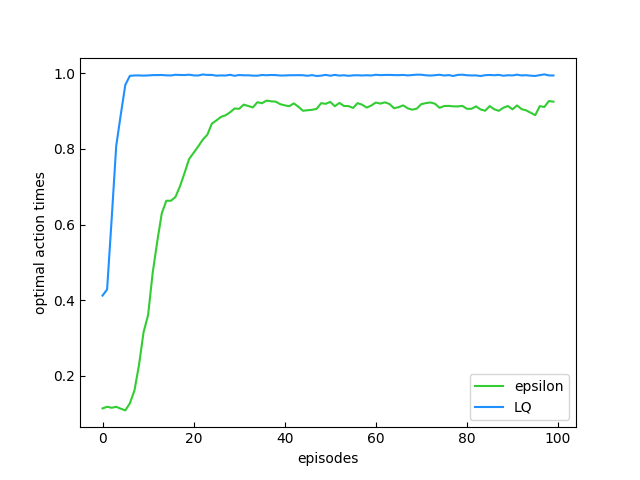
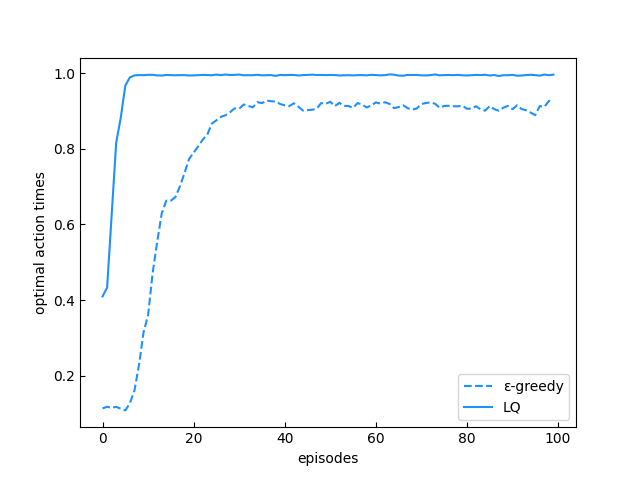
minor rivision

diff --git a/Draw/draw.py b/Draw/draw.py
@@ -15,8 +15,8 @@ episodes_la = np.load(fname_la)
 
 plt.rcParams['xtick.direction'] = 'in'
 plt.rcParams['ytick.direction'] = 'in'
-plt.plot(np.arange(0, episode_num), episodes_eps, label='epsilon', color='limegreen')
-plt.plot(np.arange(0, episode_num), episodes_la, label='LQ', color='dodgerblue')
+plt.plot(np.arange(0, episode_num), episodes_eps, ls='--', label='ε-greedy', color='dodgerblue')
+plt.plot(np.arange(0, episode_num), episodes_la, ls='-',label='LQ', color='dodgerblue')
 #plt.plot(np.arange(0, step_num - 200), steps1[:300], color = 'dodgerblue')
 #plt.plot(np.arange(0, step_num - 200), steps2[:300], color = 'salmon')
 #plt.axhline(ave, ls = "-.", color = "slateblue")

diff --git a/TaxiProblemwithLA/taxiproblem.py b/TaxiProblemwithLA/taxiproblem.py
@@ -55,6 +55,7 @@ if __name__ == '__main__':
             opt_act_num = 0
             state = env.reset()
             agent.observe(state)    #初期状態に
+            
     opt_act_prob_ave = opt_act_prob_ave / cst.const.NB_REPEAT
     #Q値保存
     agent.save_q(f'./Qvalues/Qvalue_la_theta{cst.const.THETA}.npy')

diff --git a/TaxiProblemwithLA/check.py b/TaxiProblemwithLA/check.py
@@ -1,0 +1,8 @@
+import numpy as np
+import matplotlib.pyplot as plt
+
+theta = 1
+q_value = np.load(f'./Qvalues/Qvalue_la_theta{theta}.npy', allow_pickle=True)
+act_prob = np.load(f'./probabilities/OptimalActionProbability_Ave_LA_theta{theta}.npy', allow_pickle=True)
+#print(q_value)
+print(act_prob)

diff --git a/TaxiProblemwithLA/Const/constant.py b/TaxiProblemwithLA/Const/constant.py
@@ -54,6 +54,6 @@ const.state_set = {'City A':0, 'City B':1, 'City C':2}
 const.act_set = {'Find':0, 'Stand':1, 'Call':2}
 const.start_state = const.state_set['City A']
 const.LA_STATE_NUM = 200 #LA状態数
-const.THETA = 5
+const.THETA = 1
 const.MAX_X = 150
 const.MIN_X = 100
